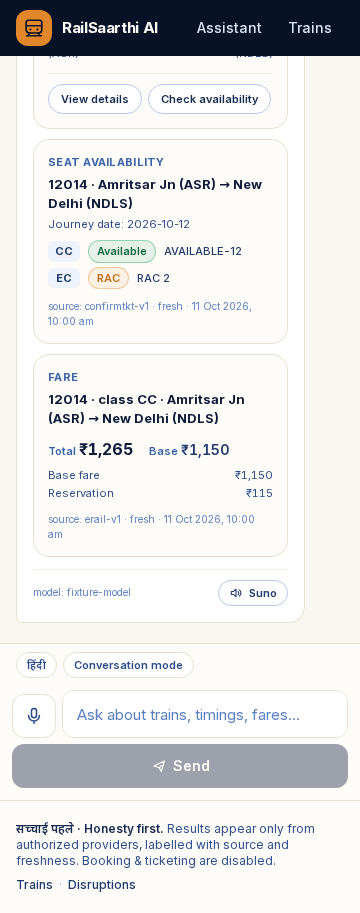
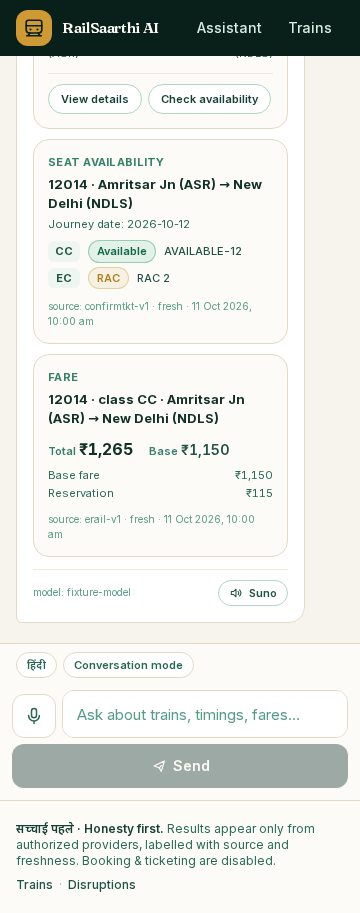
Theme: heritage pine-green + ivory + brushed gold, serif display headlines
- tokens remapped app-wide: navy->deep pine (old IR livery), cream->warm ivory,
  saffron->brushed gold; semantic green/amber/red kept for status w/ text labels
- Fraunces serif display face for hero/section headings, brand wordmark,
  chat greeting (Devanagari fallback preserved)
- premium homepage: radial gold glow hero, gold hairline divider, italic gold
  accent in headline, elevated feature cards w/ gold icon chips, how-it-works
  with gold numerals + connector line; ui-shots refreshed
- gates: tsc/lint PASS, vitest 192/192, build OK, Playwright 46/46 (clean
  credential-cleared server). no push/deploy

diff --git a/src/app/page.tsx b/src/app/page.tsx
@@ -59,23 +59,31 @@ export default function HomePage() {
   return (
     <div>
       {/* Hero */}
-      <section className="bg-navy-950 px-4 pt-12 pb-12 text-center sm:pt-16 sm:pb-14">
-        <div className="mx-auto max-w-2xl">
-          <p className="mx-auto inline-flex items-center gap-2 rounded-full border border-navy-700 bg-navy-900 px-3 py-1 text-[11px] font-semibold text-navy-100">
-            <BrandMark className="h-3.5 w-3.5 text-saffron-500" />
+      <section className="relative overflow-hidden bg-navy-950 px-4 pt-12 pb-12 text-center sm:pt-16 sm:pb-14">
+        <div
+          aria-hidden
+          className="pointer-events-none absolute inset-0 bg-[radial-gradient(52rem_24rem_at_50%_-6rem,rgb(207_154_51/0.16),transparent_70%)]"
+        />
+        <div
+          aria-hidden
+          className="pointer-events-none absolute inset-x-0 bottom-0 h-px bg-gradient-to-r from-transparent via-saffron-500/50 to-transparent"
+        />
+        <div className="relative mx-auto max-w-2xl">
+          <p className="mx-auto inline-flex items-center gap-2 rounded-full border border-saffron-500/30 bg-navy-900/80 px-3.5 py-1 text-[11px] font-semibold tracking-wide text-saffron-400">
+            <BrandMark className="h-3.5 w-3.5" />
             Indian Railways · AI assistant
           </p>
-          <h1 className="mt-4 text-4xl font-bold tracking-tight text-cream-50 sm:text-5xl">
-            Your Journey, Simplified.
+          <h1 className="font-display mt-5 text-[40px] leading-[1.08] font-semibold tracking-tight text-cream-50 sm:text-6xl">
+            Your Journey, <span className="text-saffron-400 italic">Simplified.</span>
           </h1>
-          <p className="mx-auto mt-3 max-w-md text-[15px] leading-relaxed text-navy-200 sm:text-base">
+          <p className="mx-auto mt-4 max-w-md text-[15px] leading-relaxed text-navy-200 sm:text-base">
             Ask anything about Indian Railways in Hindi, Hinglish or English —
             trains, timings, fares, seat availability, routes and PNR status.
           </p>
           <Link
             href="/chat"
             data-testid="start-chatting"
-            className="mt-7 inline-flex min-h-12 items-center justify-center rounded-full bg-saffron-500 px-8 text-[15px] font-bold text-navy-950 transition hover:bg-saffron-600 hover:text-cream-50"
+            className="surface-shadow mt-8 inline-flex min-h-12 items-center justify-center rounded-full bg-saffron-500 px-9 text-[15px] font-bold text-navy-950 transition hover:bg-saffron-400"
           >
             Start Chatting
           </Link>
@@ -85,13 +93,16 @@ export default function HomePage() {
 
       {/* Features */}
       <section className="mx-auto max-w-3xl px-4 pt-10">
-        <h2 className="text-center text-lg font-bold text-navy-900">
+        <h2 className="font-display text-center text-2xl font-semibold text-navy-900">
           Ek assistant, poori railway jaankari
         </h2>
-        <div className="mt-5 grid grid-cols-2 gap-3 sm:grid-cols-3">
+        <div className="mt-6 grid grid-cols-2 gap-3 sm:grid-cols-3">
           {FEATURES.map((f) => (
-            <div key={f.title} className="rounded-2xl border border-cream-300 bg-white p-3.5 sm:p-4">
-              <span className="flex h-9 w-9 items-center justify-center rounded-xl bg-navy-50 text-navy-800">
+            <div
+              key={f.title}
+              className="surface-shadow rounded-2xl border border-cream-300 bg-white p-3.5 transition hover:-translate-y-0.5 sm:p-4"
+            >
+              <span className="flex h-9 w-9 items-center justify-center rounded-xl border border-saffron-500/25 bg-saffron-500/10 text-saffron-600">
                 <f.icon className="h-4.5 w-4.5" />
               </span>
               <p className="mt-2.5 text-[13px] font-bold text-navy-900">{f.title}</p>
@@ -103,19 +114,23 @@ export default function HomePage() {
 
       {/* How it works */}
       <section className="mx-auto max-w-3xl px-4 pt-9">
-        <h2 className="text-center text-lg font-bold text-navy-900">How it works</h2>
-        <ol className="mt-4 grid gap-3 sm:grid-cols-3">
+        <h2 className="font-display text-center text-2xl font-semibold text-navy-900">How it works</h2>
+        <ol className="relative mt-6 grid gap-3 sm:grid-cols-3">
+          <span
+            aria-hidden
+            className="absolute top-4 right-[16%] left-[16%] hidden h-px bg-gradient-to-r from-saffron-500/0 via-saffron-500/40 to-saffron-500/0 sm:block"
+          />
           {[
             { t: "Ask a question", d: "Apni bhasha mein likhein ya bolein — koi form nahi." },
             { t: "Get railway information", d: "Assistant authorized providers se jaankari laata hai." },
             { t: "Explore the results", d: "Cards me timings, fare, availability — source ke saath." },
-          ].map((s, i) => (
-            <li key={s.t} className="rounded-2xl border border-cream-300 bg-cream-50 p-4">
-              <span className="flex h-7 w-7 items-center justify-center rounded-full bg-navy-900 text-xs font-bold text-cream-50">
+          ].map((st, i) => (
+            <li key={st.t} className="relative rounded-2xl border border-cream-300 bg-cream-50 p-4">
+              <span className="font-display flex h-8 w-8 items-center justify-center rounded-full border border-saffron-500/40 bg-white text-sm font-semibold text-saffron-600">
                 {i + 1}
               </span>
-              <p className="mt-2 text-[13px] font-bold text-navy-900">{s.t}</p>
-              <p className="mt-0.5 text-[11px] leading-relaxed text-navy-600">{s.d}</p>
+              <p className="mt-2.5 text-[13px] font-bold text-navy-900">{st.t}</p>
+              <p className="mt-0.5 text-[11px] leading-relaxed text-navy-600">{st.d}</p>
             </li>
           ))}
         </ol>
@@ -123,7 +138,7 @@ export default function HomePage() {
 
       {/* Example questions */}
       <section className="mx-auto max-w-3xl px-4 pt-9">
-        <h2 className="text-center text-sm font-bold text-navy-900">Try tapping one</h2>
+        <h2 className="font-display text-center text-lg font-semibold text-navy-900">Try tapping one</h2>
         <div className="mt-3 flex flex-wrap justify-center gap-2">
           {EXAMPLES.map((s) => (
             <Link

diff --git a/src/app/globals.css b/src/app/globals.css
@@ -5,37 +5,43 @@
  * Tailwind v4 @theme generates utilities (bg-navy-900, text-cream-100, …).
  */
 @theme {
-  /* Navy scale */
-  --color-navy-50: #eef3fb;
-  --color-navy-100: #d9e3f5;
-  --color-navy-200: #b6c8ea;
-  --color-navy-300: #8aa6d9;
-  --color-navy-400: #5b81c3;
-  --color-navy-500: #3a63a8;
-  --color-navy-600: #2a4c8a;
-  --color-navy-700: #1f3a6d;
-  --color-navy-800: #16294f;
-  --color-navy-900: #0e1c3a;
-  --color-navy-950: #081226;
+  /* Deep heritage pine (old Indian Railways livery) — brand + primary actions */
+  --color-navy-50: #eef6f2;
+  --color-navy-100: #d7ebe2;
+  --color-navy-200: #b0d6c6;
+  --color-navy-300: #83bca6;
+  --color-navy-400: #559d84;
+  --color-navy-500: #35816a;
+  --color-navy-600: #276856;
+  --color-navy-700: #1f5346;
+  --color-navy-800: #174036;
+  --color-navy-900: #103028;
+  --color-navy-950: #081f1a;
 
-  /* Off-white / cream scale */
-  --color-cream-50: #fdfcf9;
-  --color-cream-100: #faf7f0;
-  --color-cream-200: #f3eee2;
-  --color-cream-300: #e9e1cf;
-  --color-cream-400: #d8cdb2;
+  /* Warm ivory surfaces */
+  --color-cream-50: #fcfbf8;
+  --color-cream-100: #f7f4ed;
+  --color-cream-200: #efe9dc;
+  --color-cream-300: #e3dac6;
+  --color-cream-400: #d0c2a4;
 
-  /* Accents */
-  --color-saffron-500: #e2862a;
-  --color-saffron-600: #c26d1b;
-  --color-signal-500: #1f9d61;
-  --color-signal-700: #146c43;
+  /* Brushed gold — the single restrained accent */
+  --color-saffron-400: #dcaf4f;
+  --color-saffron-500: #cf9a33;
+  --color-saffron-600: #b07f22;
+
+  /* Semantic status colours (always paired with text labels) */
+  --color-signal-500: #149a63;
+  --color-signal-700: #0e6b45;
   --color-alert-500: #c2410c;
 
   --font-sans:
     var(--font-inter), var(--font-devanagari), ui-sans-serif, system-ui,
     "Segoe UI", Roboto, "Noto Sans", "Noto Sans Devanagari", "Nirmala UI",
     "Kohinoor Devanagari", "Mangal", sans-serif;
+
+  /* Serif display face for premium headlines */
+  --font-display: var(--font-fraunces), var(--font-devanagari), Georgia, "Times New Roman", serif;
 }
 
 html {

diff --git a/src/app/layout.tsx b/src/app/layout.tsx
@@ -1,6 +1,6 @@
 import type { Metadata, Viewport } from "next";
 import Link from "next/link";
-import { Inter, Noto_Sans_Devanagari } from "next/font/google";
+import { Fraunces, Inter, Noto_Sans_Devanagari } from "next/font/google";
 import "./globals.css";
 import { Providers } from "@/components/providers";
 import { BrandMark } from "@/components/icons";
@@ -8,6 +8,13 @@ import { BrandMark } from "@/components/icons";
 const inter = Inter({
   subsets: ["latin"],
   variable: "--font-inter",
+  display: "swap",
+});
+
+const fraunces = Fraunces({
+  subsets: ["latin"],
+  weight: ["500", "600", "700"],
+  variable: "--font-fraunces",
   display: "swap",
 });
 
@@ -30,7 +37,7 @@ export const metadata: Metadata = {
 export const viewport: Viewport = {
   width: "device-width",
   initialScale: 1,
-  themeColor: "#081226",
+  themeColor: "#081f1a",
   // Mobile keyboards resize the visual viewport so the composer stays
   // reachable instead of being covered (keyboard-aware behaviour).
   interactiveWidget: "resizes-content",
@@ -46,7 +53,7 @@ export default function RootLayout({
   children,
 }: Readonly<{ children: React.ReactNode }>) {
   return (
-    <html lang="en" className={`${inter.variable} ${devanagari.variable} h-full`}>
+    <html lang="en" className={`${inter.variable} ${devanagari.variable} ${fraunces.variable} h-full`}>
       <body className="flex h-full min-h-dvh flex-col bg-cream-100 font-sans text-navy-950 antialiased">
         <Providers>
           <a
@@ -69,7 +76,7 @@ export default function RootLayout({
                   <BrandMark className="h-5.5 w-5.5" />
                 </span>
                 <span className="min-w-0 leading-tight">
-                  <span className="block truncate text-[15px] font-bold tracking-tight text-cream-50">
+                  <span className="font-display block truncate text-[15px] font-semibold tracking-tight text-cream-50">
                     RailSaarthi AI
                   </span>
                   <span className="hidden truncate text-[10px] font-medium text-navy-300 min-[400px]:block">

diff --git a/src/components/ChatClient.tsx b/src/components/ChatClient.tsx
@@ -463,7 +463,7 @@ export function ChatClient({ initialMessage }: { initialMessage?: string }) {
 
           {messages.length === 0 && (
             <div className="pt-4 pb-2 text-center sm:pt-10">
-              <p className="text-lg font-bold text-navy-900">नमस्ते! Main RailSaarthi हूँ.</p>
+              <p className="font-display text-xl font-semibold text-navy-900">नमस्ते! Main RailSaarthi हूँ.</p>
               <p className="mx-auto mt-1.5 max-w-sm text-sm leading-relaxed text-navy-600">
                 Trains ke baare mein kuch bhi poochhein — Hindi, Hinglish ya English.
                 Live answers sirf authorized providers se aate hain; main kabhi guess
